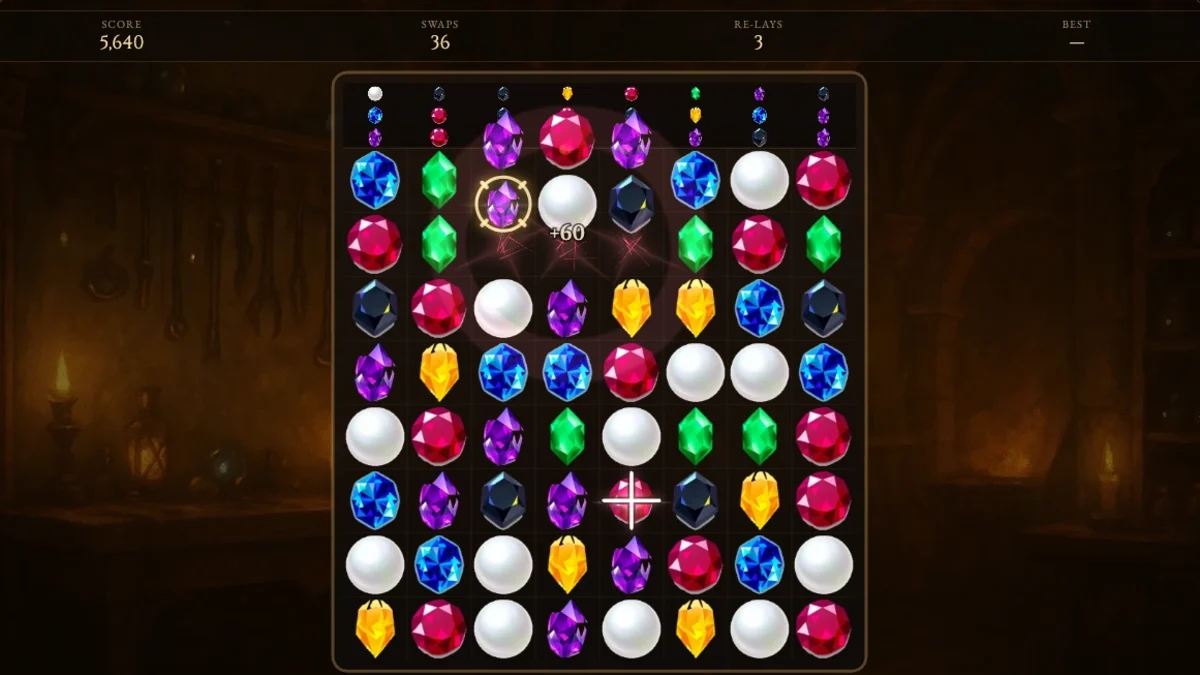
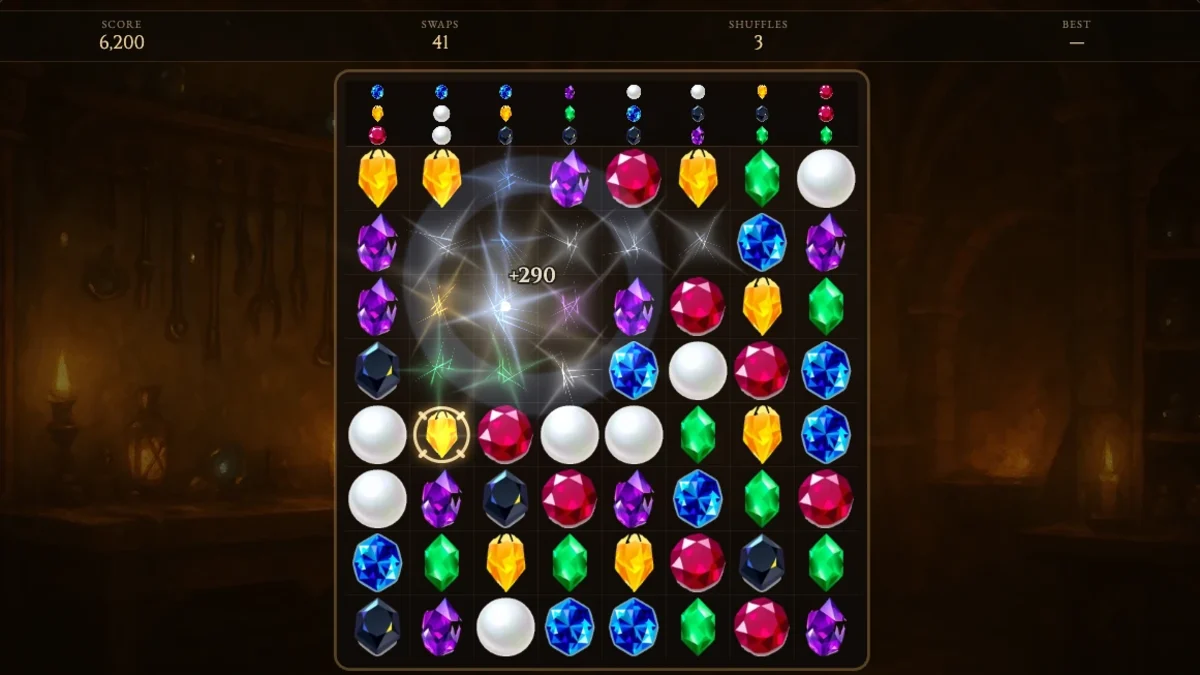
small games: Match Three card refreshed from the shipped build

Changed region(s): [[0.2775, 0.0933, 0.74, 1.0], [0.0925, 0.0311, 0.1233, 0.0933], [0.6167, 0.0311, 0.6475, 0.0622]]

diff --git a/small-games/match-three/index.html b/small-games/match-three/index.html
@@ -4,4 +4,4 @@
 <link rel="canonical" href="https://morass.github.io/small-games/match-three/"><meta property="og:title" content="Match Three — Morass"><meta property="og:description" content="Free match-three gem puzzle with a visible refill queue: Endless, One Minute, Thirty Moves and a daily bench."><meta property="og:type" content="website"><meta property="og:url" content="https://morass.github.io/small-games/match-three/"><meta property="og:image" content="https://morass.github.io/assets/projects/match-three.webp">
 <meta name="theme-color" content="#101713"><script src="/theme.js"></script><link rel="icon" href="/favicon.png"><link rel="stylesheet" href="/hub.css"><script src="/hub.js" defer></script></head>
 <body><a class="skip" href="#main">Skip to content</a><header class="header"><div class="shell header-inner"><a class="brand" href="/" aria-label="Morass home"><span class="brand-mark" aria-hidden="true">m.</span>MORASS<span class="brand-note">PLAY · MAKE · EXPLORE</span></a><nav aria-label="Main"><a href="/games/">Games</a><a href="/small-games/" aria-current="page">Small Games</a><a href="/mobile/">Mobile</a><a href="/youtube/">YouTube</a><a href="/prints/">Prints</a></nav><button class="theme-toggle" type="button" aria-label="Switch to light mode" title="Switch to light mode" hidden><svg class="icon-sun" viewBox="0 0 24 24" aria-hidden="true"><g fill="none" stroke="currentColor" stroke-width="1.5" stroke-linecap="round"><circle cx="12" cy="12" r="4.2"/><path d="M12 2.5v2.6M12 18.9v2.6M2.5 12h2.6M18.9 12h2.6M5.3 5.3l1.8 1.8M16.9 16.9l1.8 1.8M5.3 18.7l1.8-1.8M16.9 7.1l1.8-1.8"/></g></svg><svg class="icon-moon" viewBox="0 0 24 24" aria-hidden="true"><path d="M19.5 14.6A7.8 7.8 0 0 1 9.4 4.5a7.8 7.8 0 1 0 10.1 10.1Z" fill="none" stroke="currentColor" stroke-width="1.5" stroke-linejoin="round"/><path d="M17 4.5l.6 1.4 1.4.6-1.4.6-.6 1.4-.6-1.4-1.4-.6 1.4-.6Z" fill="currentColor"/></svg></button></div></header>
-<main id="main" class="shell"><nav class="breadcrumbs" aria-label="Breadcrumb"><a href="/">Home</a><span aria-hidden="true">/</span><a href="/small-games/">Small Games</a><span aria-hidden="true">/</span><a href="/small-games/match-three/">Match Three</a></nav><section class="product-hero"><div><header class="page-heading"><p class="eyebrow">SMALL GAMES / PUZZLE</p><h1>Match Three</h1><p class="lede">The chutes show what falls next, so a cascade is something you build.</p></header><a class="button" href="https://morassgames.com/games/match-three/">Play now <span aria-hidden="true">↗</span></a><p class="small-note">Free · No account · Plays on morassgames.com</p></div><img src="/assets/projects/match-three.webp" width="1200" height="675" alt="Seven kinds of cut gem in an eight-by-eight frame on a lamplit workshop bench, with the next stones for each column shown in chutes above it"></section><section class="rules"><p class="eyebrow">HOW TO PLAY</p><h2>Line up three of a kind.</h2><ol><li>Tap a stone and then its neighbour, or drag one at the other, to swap them.</li><li>Three or more in a row or a column flare and go; the column falls and the chutes feed it.</li><li>Read the chutes — the stone you can see coming is the one that finishes the line you are about to open.</li></ol><p>Four in a line leaves a Burst, an L or a T leaves a Star, and five leaves a Prism that takes a whole colour off the bench. Four ways to play: Endless, a sixty-second run, thirty swaps with no clock, and one daily bench everybody shares. Each keeps the ten best runs with the name of whoever set them, and every one of those ten is a replay you can watch.</p></section></main><footer class="footer shell"><a class="brand" href="/">morass<span class="accent">.</span></a><p>Games, objects and other curiosities.<br>Made with care. Made to be explored.</p><nav aria-label="Footer"><a href="/prints/">Prints</a><a href="/games/">Games</a><a href="/tools/">Tools</a><a href="https://discord.gg/KTKarn46yq" rel="noopener">Discord</a><a href="/privacy.html">Privacy</a></nav><small>© 2026 Morass</small></footer></body></html>
+<main id="main" class="shell"><nav class="breadcrumbs" aria-label="Breadcrumb"><a href="/">Home</a><span aria-hidden="true">/</span><a href="/small-games/">Small Games</a><span aria-hidden="true">/</span><a href="/small-games/match-three/">Match Three</a></nav><section class="product-hero"><div><header class="page-heading"><p class="eyebrow">SMALL GAMES / PUZZLE</p><h1>Match Three</h1><p class="lede">The chutes show what falls next, so a cascade is something you build.</p></header><a class="button" href="https://morassgames.com/games/match-three/">Play now <span aria-hidden="true">↗</span></a><p class="small-note">Free · No account · Plays on morassgames.com</p></div><img src="/assets/projects/match-three.webp" width="1200" height="675" alt="Seven kinds of cut gem in an eight-by-eight frame on a lamplit workshop bench, with the next stones for each column shown in chutes above it"></section><section class="rules"><p class="eyebrow">HOW TO PLAY</p><h2>Line up three of a kind.</h2><ol><li>Tap a stone and then its neighbour, or drag one at the other, to swap them.</li><li>Three or more in a row or a column flare and go; the column falls and the chutes feed it.</li><li>Read the chutes — the stone you can see coming is the one that finishes the line you are about to open.</li></ol><p>Four in a line leaves a Burst, an L or a T leaves a Star, and five leaves a Prism that takes a whole colour off the bench. Four ways to play: Endless (with three free shuffles when the bench runs out of swaps), a sixty-second run, thirty swaps with no clock, and one daily bench everybody shares. Each keeps the ten best runs with the name of whoever set them, and every one of those ten is a replay you can watch.</p></section></main><footer class="footer shell"><a class="brand" href="/">morass<span class="accent">.</span></a><p>Games, objects and other curiosities.<br>Made with care. Made to be explored.</p><nav aria-label="Footer"><a href="/prints/">Prints</a><a href="/games/">Games</a><a href="/tools/">Tools</a><a href="https://discord.gg/KTKarn46yq" rel="noopener">Discord</a><a href="/privacy.html">Privacy</a></nav><small>© 2026 Morass</small></footer></body></html>
